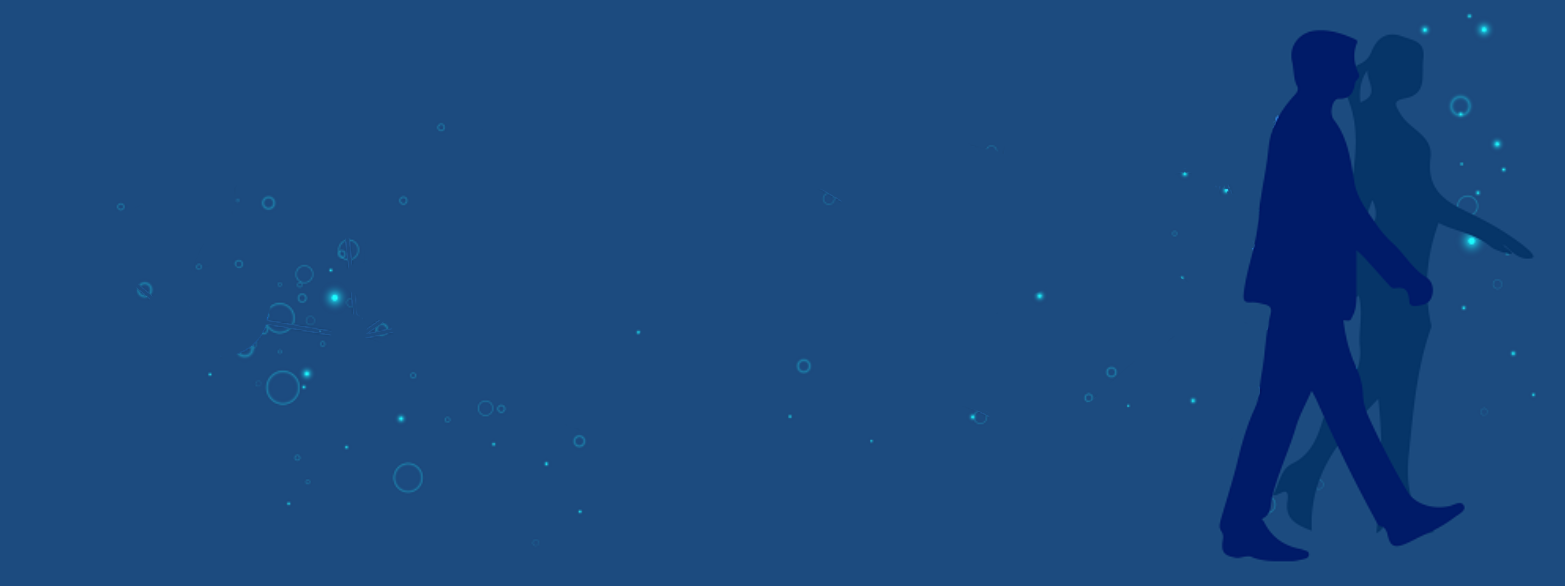
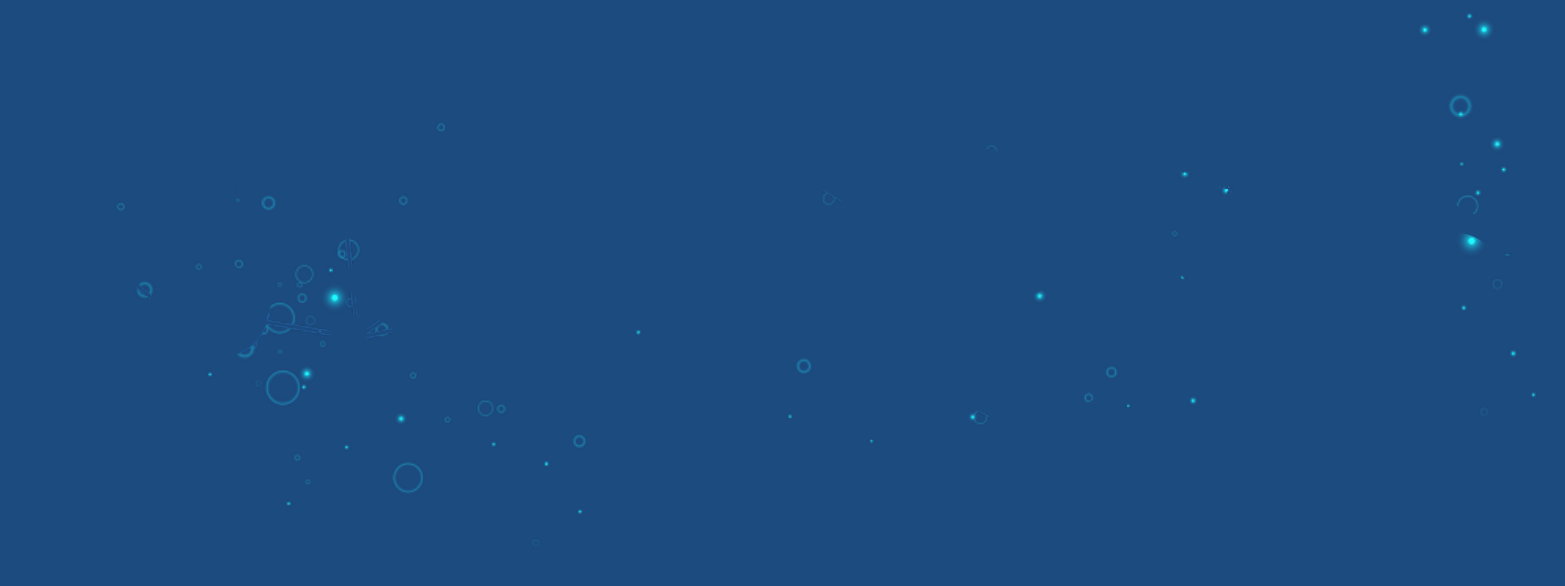
about頁面 上方banner連線及link，尚未設計rwd

Changed region(s): [[0.7668, 0.0307, 0.9508, 0.9829]]

diff --git a/js/about.js b/js/about.js
@@ -1,6 +1,9 @@
 $(function () {
   var pointRadius = 3
   var color = '#3186e3'
+  var ICON_SIZE = 75
+  var SCALE_X = 0.8;
+  var SCALE_Y = 0.8;
 
   var canvas = this.__canvas = new fabric.Canvas('banner-canvas', {
     width: window.innerWidth * 0.95,
@@ -14,6 +17,19 @@ $(function () {
       scaleX: canvas.width / img.width,
       scaleY: canvas.height / img.height
     });
+  });
+
+  fabric.Image.fromURL("../images/about-banner-people.png", function (img) {
+    img.set({
+      // scaleX: ICON_SIZE / img.width,
+      // scaleY: ICON_SIZE / img.height,
+      left: canvas.width - 270,
+      top: 0,
+      hasControls: false,
+      lockMovementX: true,
+      lockMovementY: true,
+    });
+    canvas.add(img)
   });
 
   canvas.on('object:selected', function (e) {
@@ -53,8 +69,10 @@ $(function () {
   function addLinkIcon(position, iconPath, linkHref) {
     fabric.Image.fromURL(iconPath, function (img) {
       img.set({
-        left: position[0],
-        top: position[1],
+        scaleX: ICON_SIZE / img.width,
+        scaleY: ICON_SIZE / img.height,
+        left: position[0] - ICON_SIZE / 2,
+        top: position[1] - ICON_SIZE / 2,
         hasControls: false,
         lockMovementX: true,
         lockMovementY: true,
@@ -66,30 +84,60 @@ $(function () {
   }
 
   var graph = [
-    { pos: [0, 233], relation: [] },    // 0
-    { pos: [47, 238], relation: [0] },    // 1
-    { pos: [92, 240], relation: [1] },    // 2
-    { pos: [0, 290], relation: [1] },    // 3
-    { pos: [28, 389], relation: [1, 2] },    // 4
-    { pos: [0, 388], relation: [4] },    // 5
-    { pos: [180, 312], relation: [2, 4] },    // 6
-    { pos: [245, 165], relation: [2, 6] },    // 7
-    { pos: [232, 308], relation: [6, 7] },    // 8
-    { pos: [347, 162], relation: [7, 8] },    // 9
-    { pos: [364, 337], relation: [9, 8] },    // 10
-    { pos: [392, 166], relation: [9, 10] },    // 11
-    // { pos: [347, 162], relation: [7, 8] },    // 10
-
+    // pos: 該點的位置; 暫時使用SCALE_X及SCALE_Y來控制rwd scale，待improve
+    // relation: 該點跟哪些點有連線，目前只記錄往前面index點的連線
+    { pos: [0 * SCALE_X, 233 * SCALE_Y], relation: [] },    // 0
+    { pos: [47 * SCALE_X, 238 * SCALE_Y], relation: [0] },    // 1
+    { pos: [92 * SCALE_X, 240 * SCALE_Y], relation: [1] },    // 2
+    { pos: [0 * SCALE_X, 290 * SCALE_Y], relation: [1] },    // 3
+    { pos: [28 * SCALE_X, 389 * SCALE_Y], relation: [1, 2] },    // 4
+    { pos: [0 * SCALE_X, 388 * SCALE_Y], relation: [4] },    // 5
+    { pos: [180 * SCALE_X, 312 * SCALE_Y], relation: [2, 4] },    // 6
+    { pos: [245 * SCALE_X, 165 * SCALE_Y], relation: [2, 6] },    // 7
+    { pos: [232 * SCALE_X, 308 * SCALE_Y], relation: [6, 7] },    // 8
+    { pos: [347 * SCALE_X, 162 * SCALE_Y], relation: [7, 8] },    // 9
+    { pos: [364 * SCALE_X, 337 * SCALE_Y], relation: [9, 8] },    // 10
+    { pos: [392 * SCALE_X, 166 * SCALE_Y], relation: [9, 10] },    // 11
+    { pos: [524 * SCALE_X, 227 * SCALE_Y], relation: [10, 11] },    // 12
+    { pos: [507 * SCALE_X, 130 * SCALE_Y], relation: [11, 12] },    // 13
+    { pos: [578 * SCALE_X, 295 * SCALE_Y], relation: [10, 12] },    // 14
+    { pos: [650 * SCALE_X, 148 * SCALE_Y], relation: [12, 13, 14] },    // 15
+    { pos: [616 * SCALE_X, 439 * SCALE_Y], relation: [14, 10] },    // 16
+    { pos: [692 * SCALE_X, 252 * SCALE_Y], relation: [14, 15, 16] },    // 17
+    { pos: [716 * SCALE_X, 125 * SCALE_Y], relation: [15, 17] },    // 18
+    { pos: [751 * SCALE_X, 460 * SCALE_Y], relation: [16, 17] },    // 19
+    { pos: [845 * SCALE_X, 105 * SCALE_Y], relation: [18] },    // 20
+    { pos: [895 * SCALE_X, 231 * SCALE_Y], relation: [20, 18, 17] },    // 21
+    { pos: [893 * SCALE_X, 366 * SCALE_Y], relation: [21, 19, 17] },    // 22
+    { pos: [1047 * SCALE_X, 172 * SCALE_Y], relation: [21, 20] },    // 23
+    { pos: [1081 * SCALE_X, 264 * SCALE_Y], relation: [23, 22, 21] },    // 24
+    { pos: [1055 * SCALE_X, 441 * SCALE_Y], relation: [24, 22] },    // 25
+    { pos: [1135 * SCALE_X, 242 * SCALE_Y], relation: [25, 24, 23] },    // 26
+    { pos: [1221 * SCALE_X, 170 * SCALE_Y], relation: [26, 23] },    // 27
+    { pos: [1209 * SCALE_X, 302 * SCALE_Y], relation: [27, 26, 25] },    // 28
+    { pos: [1222 * SCALE_X, 449 * SCALE_Y], relation: [28, 25] },    // 29
+    { pos: [1280 * SCALE_X, 120 * SCALE_Y], relation: [27] },    // 30
+    { pos: [1289 * SCALE_X, 335 * SCALE_Y], relation: [29, 28, 27] },    // 31
   ]
+
   for (var i = 0; i < graph.length; i++) {
+    // 先把該點畫出來
     graph[i].point = makePoint(graph[i].pos[0], graph[i].pos[1])
     canvas.add(graph[i].point)
+    //再用for迴圈畫出所有連線
     for (var j = 0; j < graph[i].relation.length; j++) {
-      var relatedPoint = graph[i].relation[j]
+      var relatedPoint = graph[i].relation[j] // 獲取線段的另一端點index
       addLine(graph[i].point, graph[relatedPoint].point)
     }
   }
 
-  addLinkIcon([400, 10], '../images/test.png', "https://www.google.com")
+  addLinkIcon([232 * SCALE_X, 308 * SCALE_Y], '../images/test.png', "https://www.google.com")
+  addLinkIcon([350 * SCALE_X, 170 * SCALE_Y], '../images/test.png', "https://www.google.com")
+  addLinkIcon([578 * SCALE_X, 295 * SCALE_Y], '../images/test.png', "https://www.google.com")
+  addLinkIcon([716 * SCALE_X, 135 * SCALE_Y], '../images/test.png', "https://www.google.com")
+  addLinkIcon([751 * SCALE_X, 460 * SCALE_Y], '../images/test.png', "https://www.google.com")
+  addLinkIcon([895 * SCALE_X, 231 * SCALE_Y], '../images/test.png', "https://www.google.com")
+  addLinkIcon([1047 * SCALE_X, 172 * SCALE_Y], '../images/test.png', "https://www.google.com")
+  addLinkIcon([1055 * SCALE_X, 441 * SCALE_Y], '../images/test.png', "https://www.google.com")
 
 })
